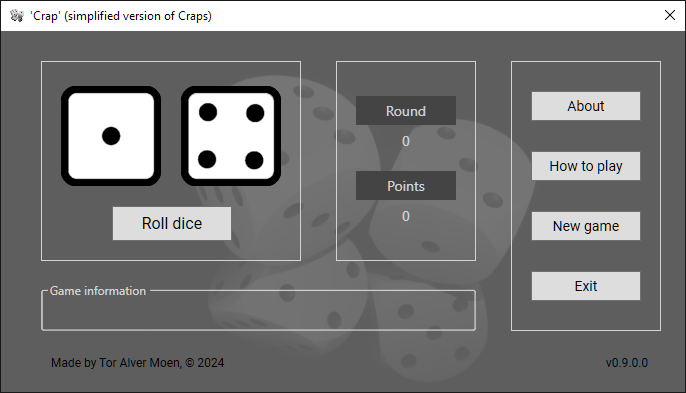
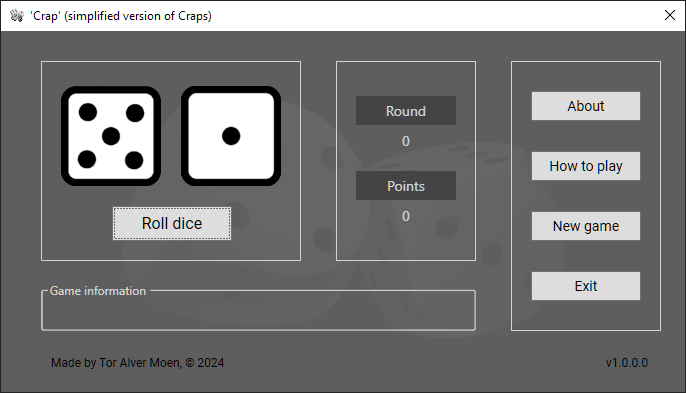
Updated to version v1.0.0.0
#jira CD2-24

diff --git a/Crap/MainWindow.xaml b/Crap/MainWindow.xaml
@@ -6,7 +6,7 @@
         xmlns:local="clr-namespace:Crap" mc:Ignorable="d" Background="DimGray" Foreground="LightGray" ResizeMode="NoResize" 
         Title="'Crap' (simplified version of Craps)" Height="400" Width="700" WindowStartupLocation="CenterScreen" Loaded="Window_Loaded" Icon="/3D_Dice_Icon.ico">
     <Grid>
-        <Image x:Name="___img_3D_Dice_png" Margin="0,0,0,0" Source="/img/3D_Dice.png" Opacity="0.1" Stretch="Fill" Width="700" Height="380"/>
+        <Image x:Name="_3D_Dice_background" Margin="0,0,0,0" Source="/3D_2dice_background.png" Opacity="0.2" Stretch="Fill" Width="700" Height="380"/>
         <Rectangle HorizontalAlignment="Left" Height="200" Margin="40,30,0,0" Stroke="LightGray" VerticalAlignment="Top" Width="260"/>
         <Image x:Name="DiceOneImg" HorizontalAlignment="Left" Height="100" Margin="60,55,0,0" VerticalAlignment="Top" Width="100" Source="/img/1.png"/>
         <Image x:Name="DiceTwoImg" HorizontalAlignment="Left" Height="100" Margin="180,55,0,0" VerticalAlignment="Top" Width="100" Source="/img/1.png"/>

diff --git a/Crap/App.xaml.cs b/Crap/App.xaml.cs
@@ -11,9 +11,9 @@ namespace Crap
         {
             base.OnStartup(e);
 
-            SplashScreen splash = new SplashScreen("img/CrapSplash.png");
+            SplashScreen splash = new SplashScreen("img\\3D_2dice.png");
             splash.Show(autoClose: false);
-            Thread.Sleep(4000);
+            Thread.Sleep(3000);
             splash.Close(TimeSpan.FromMilliseconds(500));
         }
     }

diff --git a/README.md b/README.md
@@ -1,4 +1,4 @@
-![Title Image](Crap/img/CrapSplash.png)
+![Title Image](Crap/img/3D_2dice.png)
 
 This game is a simplified version of the casino game Craps and is played with two dice and the rules are as follows:
 
